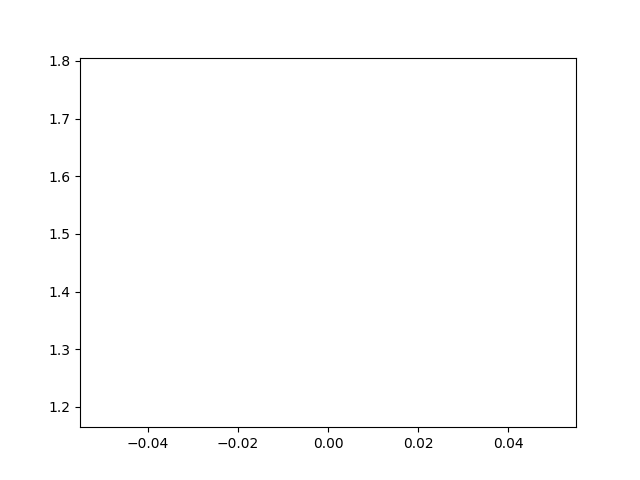
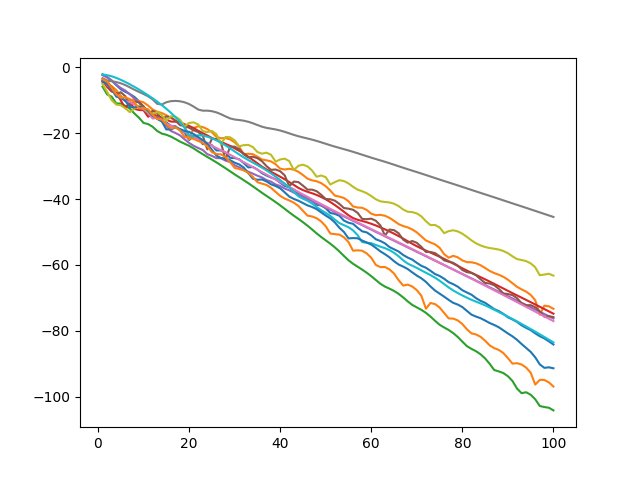
Add microGPT Taylor approximation and single-deletion diagnostics
Run the figure experiment with 10 training steps and 12 sampled directions. Compare degree-1, degree-2, and degree-3 truncations against the degree-100 polynomial, and compare Hamming-weight-1 deletion estimates against retraining as samples accumulate. Include the updated derivative-decay data and plot.

diff --git a/generate_fig1.py b/generate_fig1.py
@@ -12,7 +12,7 @@ from src.microgpt import GPT
 random.seed(42)
 polys.set_degree(100)
 
-num_steps = 1000
+num_steps = 10
 num_samples = 12
 
 # Load the dataset.
@@ -58,6 +58,8 @@ for samp in range(num_samples):
 
 # Compute estimates of log derivative norms
 estimates = []
+test_losses = []
+
 for samp in range(num_samples):
     gpt = GPT(autograd_poly.Value, uchars)
     gpt.load(f'data/fig1/model_{samp}.pkl')
@@ -66,6 +68,7 @@ for samp in range(num_samples):
     test_doc = docs[random.randint(0, num_steps-1)]
     test_loss = gpt.compute_loss(test_doc).data # type: ignore
 
+    test_losses.append(test_loss)
     derivative_mags = [abs(coeff) for coeff in test_loss.coeffs]
     est = [math.log(math.comb(num_steps + r - 1, r) ** 0.5 * mag, 2) for r, mag in enumerate(derivative_mags)]
     estimates.append(est)
@@ -90,3 +93,142 @@ def as_real(x, tol=1e-12):
 for est in estimates:
     plt.plot(rs, [as_real(est[r]) for r in rs])
 plt.savefig('results/fig1.png')
+
+
+print("\n========= Polynomial approximation errors =========")
+
+t_values = [
+    -0.02,
+    -0.01,
+    -0.005,
+    0.005,
+    0.01,
+    0.02,
+]
+
+def truncate_eval(poly, t, degree):
+    return sum(
+        poly.coeffs[r] * (t ** r)
+        for r in range(
+            min(degree + 1, len(poly.coeffs))
+        )
+    )
+
+for samp, test_loss in enumerate(test_losses):
+
+    print(f"\nSample {samp}")
+
+    for t in t_values:
+
+        full_value = test_loss.eval(t)
+
+        p1 = truncate_eval(test_loss, t, 1)
+        p2 = truncate_eval(test_loss, t, 2)
+        p3 = truncate_eval(test_loss, t, 3)
+
+        err1 = abs(full_value - p1)
+        err2 = abs(full_value - p2)
+        err3 = abs(full_value - p3)
+
+        print(
+            f"t={t:+.3f} | "
+            f"linear={err1:.3e} | "
+            f"degree2={err2:.3e} | "
+            f"degree3={err3:.3e}"
+        )
+
+
+
+print("\n========= Low Hamming weight estimations =========")
+
+# x has Hamming weight 1: delete document 0
+j = 0
+deletions = [j]
+
+x = [0] * num_steps
+x[j] = 1
+
+test_doc = docs[0]
+
+# True f(x)
+true_gpt = GPT(autograd_poly.Value, uchars)
+true_gpt.load("data/fig1/init.pkl")
+
+true_gpt.train(
+    docs[:num_steps],
+    downweights=x
+)
+
+true_fx_poly = true_gpt.compute_loss(test_doc).data
+true_fx = true_fx_poly.coeffs[0].real
+
+print(f"True f(x): {true_fx:.10f}")
+
+
+# --------------------------------------------------
+# Estimate f(x) using more and more random samples
+# --------------------------------------------------
+
+taylor_sums = [0.0 for _ in range(degree)]
+
+f_zero = None
+
+for samp in range(num_samples):
+
+    # Load sampled direction
+    with open(
+        f"data/fig1/direction_{samp}.pkl",
+        "rb"
+    ) as direction_file:
+        direction = pickle.load(direction_file)
+
+    # Load corresponding polynomial model
+    gpt = GPT(autograd_poly.Value, uchars)
+    gpt.load(f"data/fig1/model_{samp}.pkl")
+
+    # <psi, 1_D>
+    # Since deletions = [j], this is just conjugate(direction[j])
+    psi_inner_product = sum(
+        direction[i].conjugate()
+        for i in deletions
+    )
+
+    # Directional Taylor coefficients
+    taylor = gpt.compute_loss(test_doc).data.coeffs
+
+    # Constant term f(0)
+    if f_zero is None:
+        f_zero = taylor[0].real
+
+    # Add THIS sample's contribution
+    for r in range(1, degree + 1):
+        taylor_sums[r - 1] += (
+            psi_inner_product ** r
+            * taylor[r]
+            * math.comb(num_steps + r - 1, r)
+        ).real
+
+    # Number of random samples used so far
+    m = samp + 1
+
+    # Average estimate of each Taylor coefficient
+    taylor_approximations = [
+        total / m
+        for total in taylor_sums
+    ]
+
+    # x has value 1 on the deleted coordinate,
+    # so evaluate the Taylor approximation at x=1
+    estimated_fx = (
+        f_zero
+        + sum(taylor_approximations)
+    )
+
+    error = abs(estimated_fx - true_fx)
+
+    print(
+        f"samples={m:2d} | "
+        f"estimate={estimated_fx:.10f} | "
+        f"true={true_fx:.10f} | "
+        f"error={error:.6e}"
+    )
